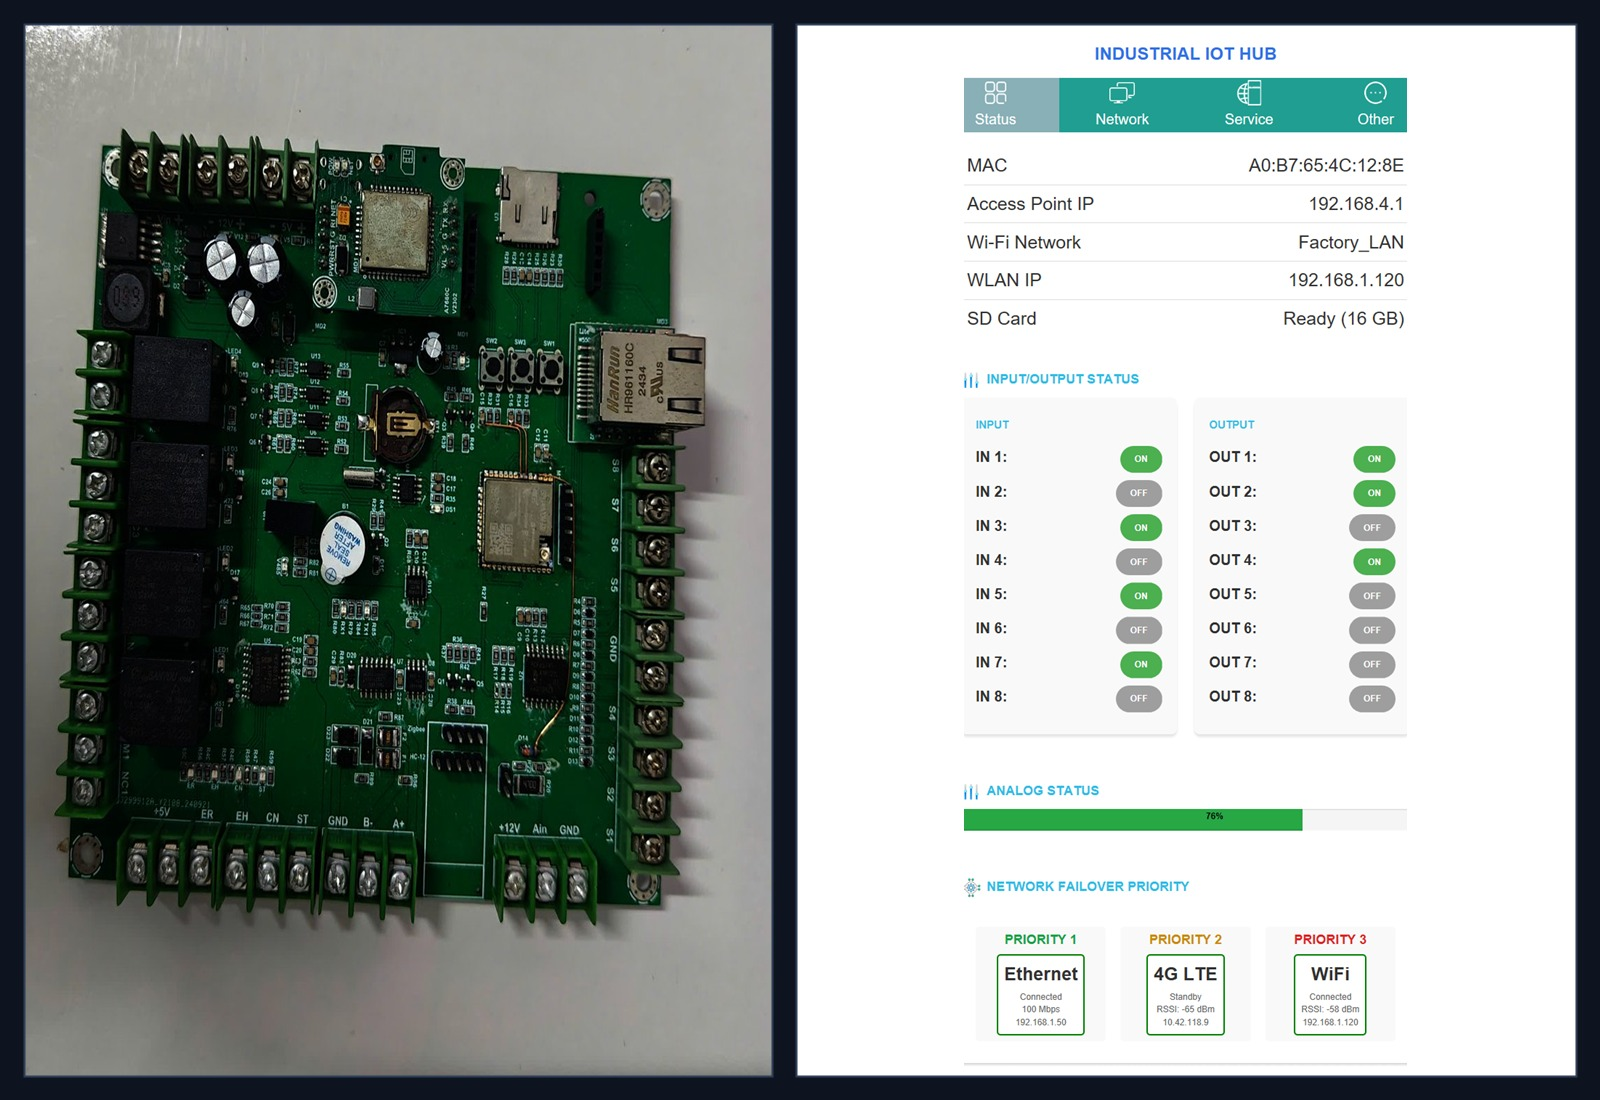
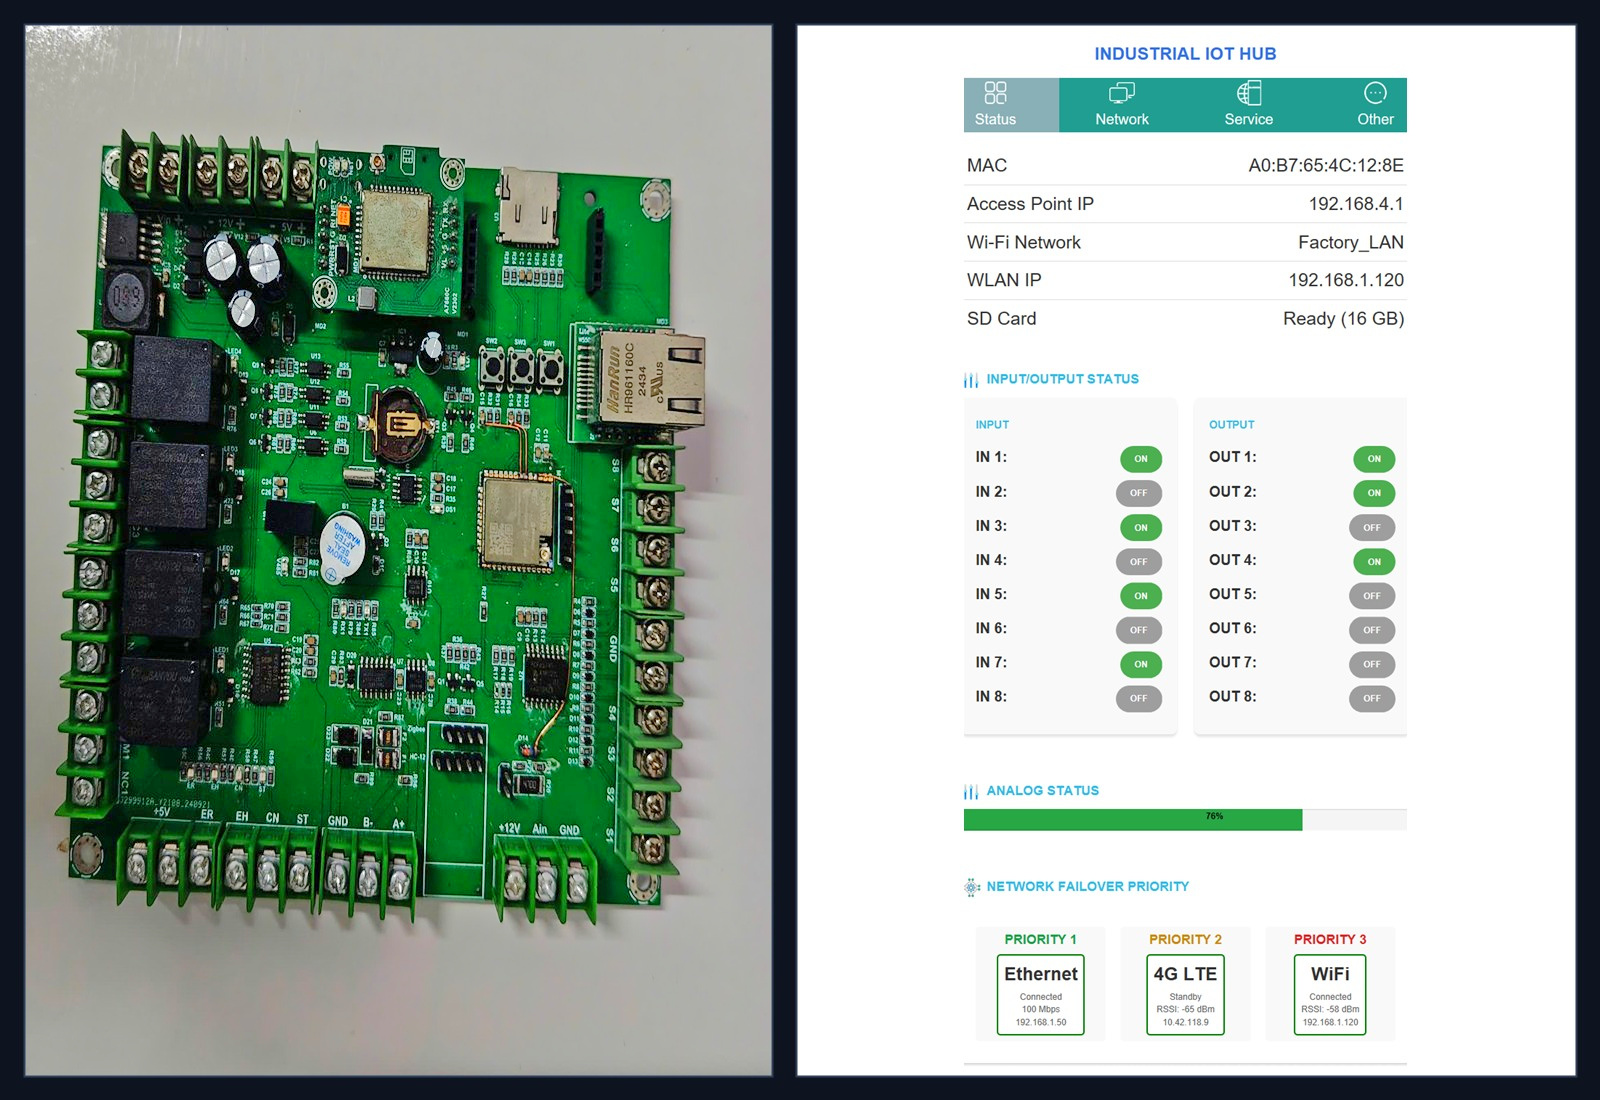
Brighten real PCB panel in IoT hub webserver composite and update cache buster

Changed region(s): [[0.0, 0.1236, 0.5, 0.9891]]

diff --git a/index.html b/index.html
@@ -688,7 +688,7 @@
           <!-- 5. 4G LTE + Ethernet + Wi-Fi + RS485 Gateway Hub & WebServer -->
           <article class="gallery-card" data-category="hardware" data-lightbox>
             <div class="gallery-thumb">
-              <img src="assets/media/iot-hub-webserver.jpg" alt="Industrial IoT Hub Hardware and Embedded WebServer UI" loading="lazy" />
+              <img src="assets/media/iot-hub-webserver.jpg?v=2" alt="Industrial IoT Hub Hardware and Embedded WebServer UI" loading="lazy" />
             </div>
             <div class="gallery-info">
               <span class="gallery-cat"><span data-i18n="vi">Trạm IoT — Phần cứng & WebServer</span><span data-i18n="en">IoT Gateway — Hardware & WebServer</span></span>
